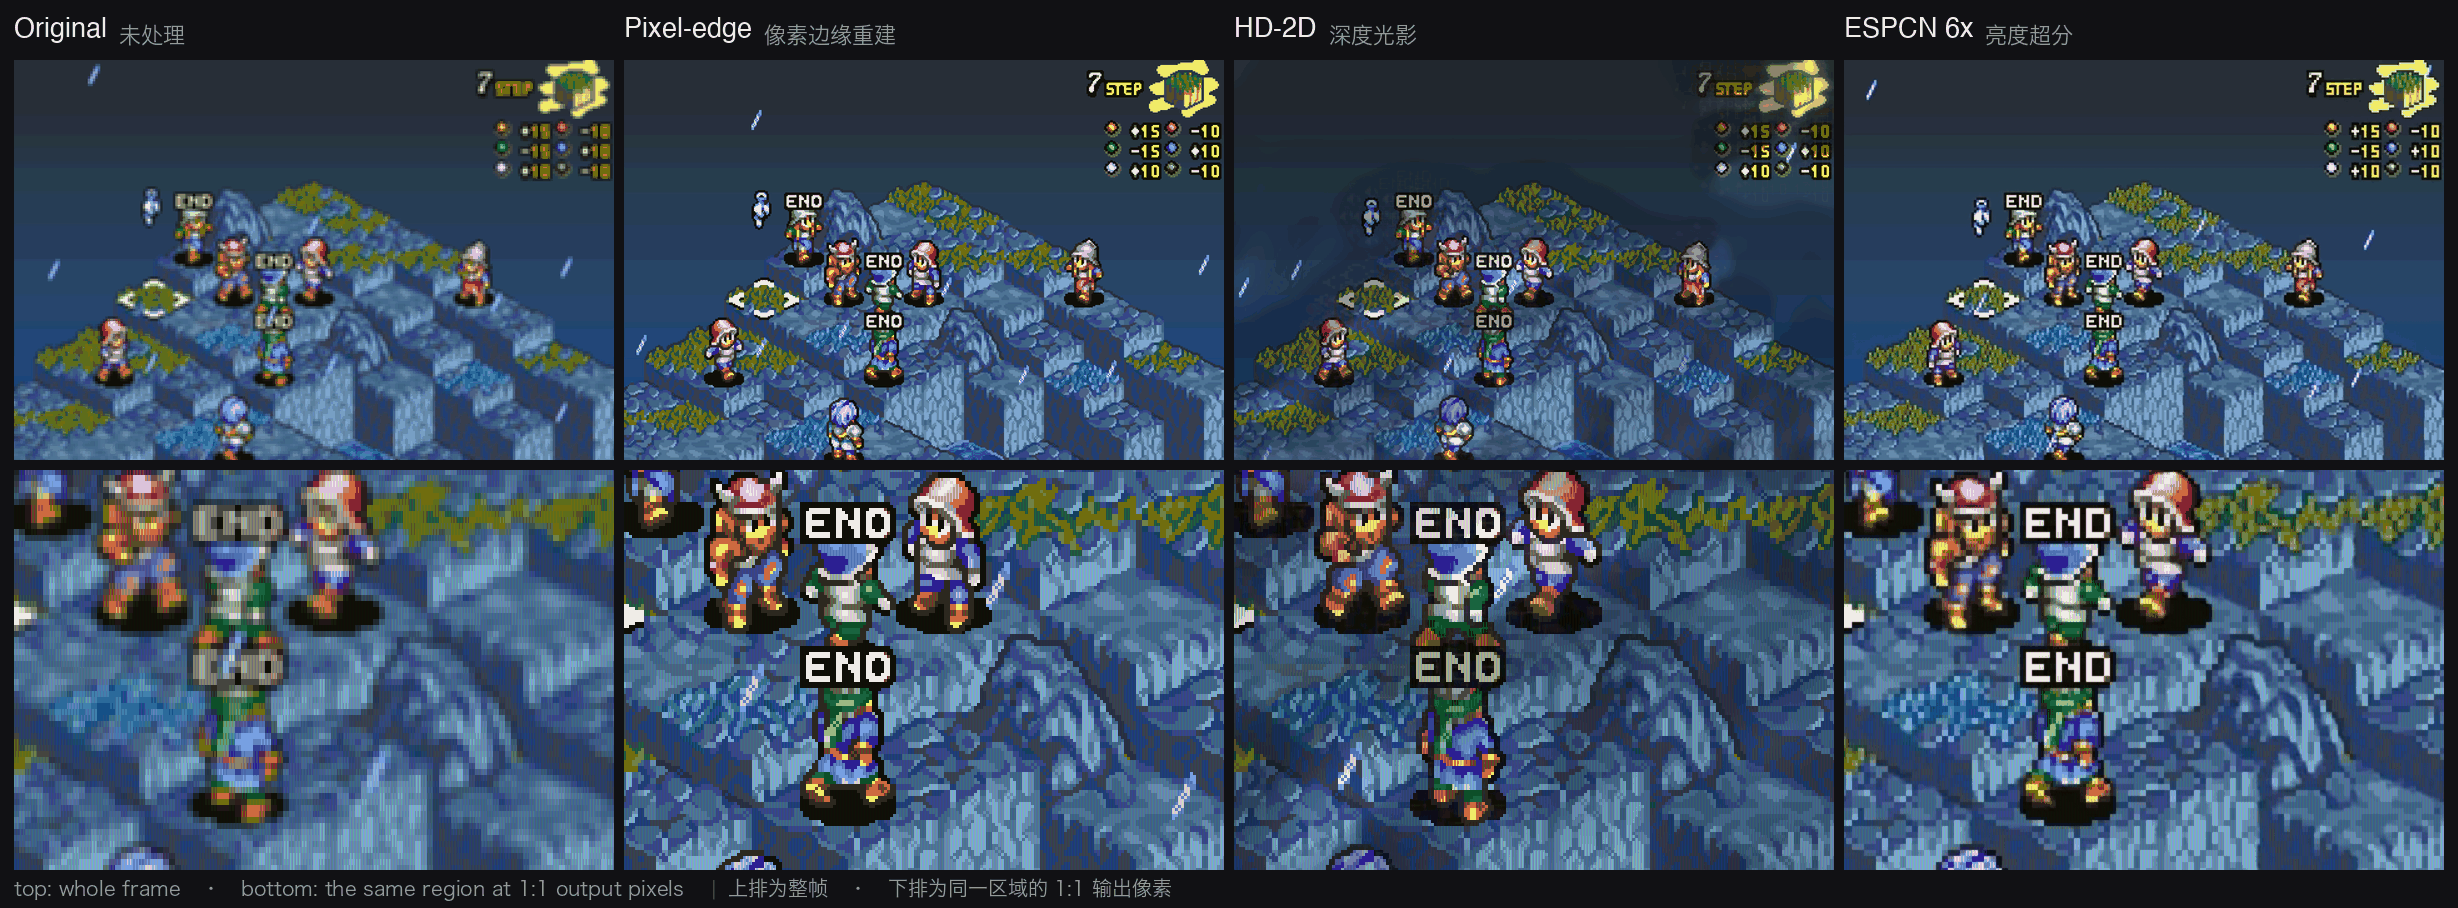
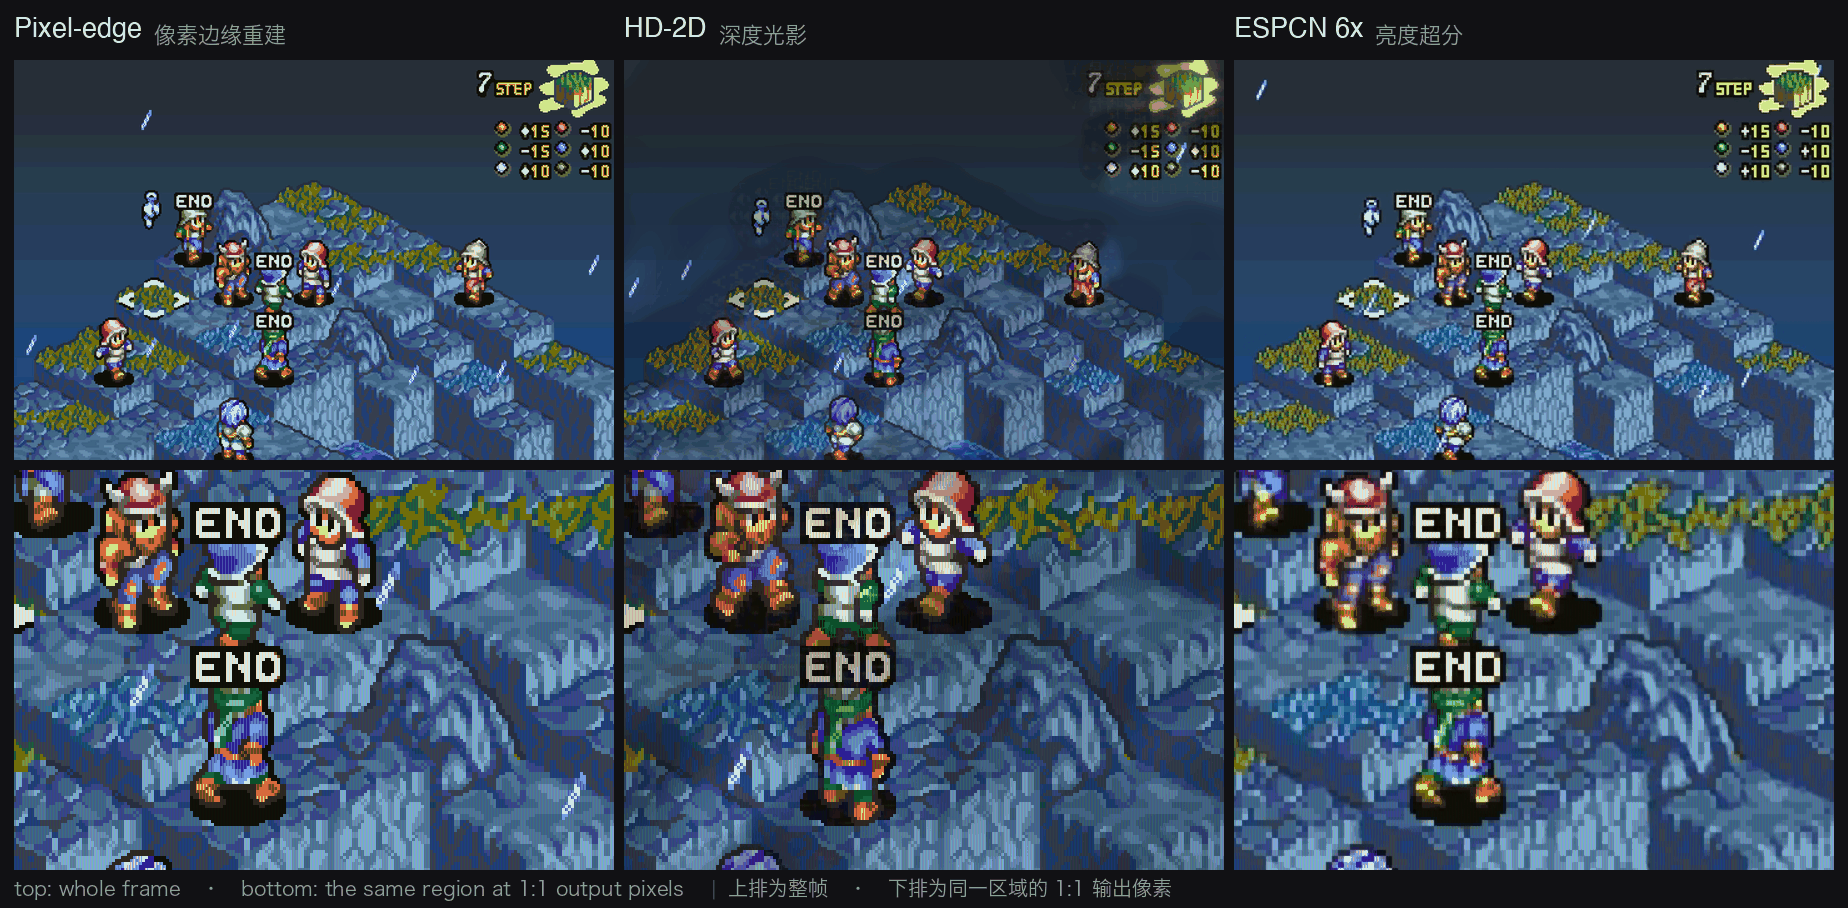
Cut the comparison to three columns so it can be read on GitHub
GitHub renders a README image at roughly 890 px wide, so the four-column strip
arrived at about 220 px per panel and nothing in it survived. Three is about
290, which reads.

Which three is a real choice rather than an arithmetic one, and the panel list
is now one line in tools/make_comparison.py with the trade written next to it.
Dropping the untouched frame loses the before, and the three processed engines
resemble each other closely enough that only HD-2D is obvious at a glance -
dropping pixel-edge instead would keep the baseline for about the same cost,
since HD-2D is pixel-edge with the lighting on top. Left as the author asked.

Both READMEs updated: they described four engines and named the original.

diff --git a/tools/make_comparison.py b/tools/make_comparison.py
@@ -19,15 +19,26 @@ OUT = os.path.join(SRC, "comparison.png")
 # Measured on all four, identical: the game area inside the letterbox.
 CONTENT = (240, 60, 1680, 1020)          # 1440x960, exactly 6x of 240x160
 
-# Panels in engine order, least to most processed.
-PANELS = [
-    # The Chinese half says something the English one does not - repeating
-    # "HD-2D" or "ESPCN 6x" in both would waste the line.
-    ("原图.png",           "Original",              "未处理"),
-    ("像素边缘重建.png",    "Pixel-edge",            "像素边缘重建"),
-    ("HD2D.png",           "HD-2D",                 "深度光影"),
-    ("ESPCN.png",          "ESPCN 6x",              "亮度超分"),
-]
+# Panels in engine order, least to most processed. The Chinese half of each
+# label says something the English one does not - repeating "HD-2D" or
+# "ESPCN 6x" in both would waste the line.
+ALL_PANELS = {
+    "original":   ("原图.png",        "Original",   "未处理"),
+    "pixel-edge": ("像素边缘重建.png", "Pixel-edge", "像素边缘重建"),
+    "hd2d":       ("HD2D.png",        "HD-2D",      "深度光影"),
+    "espcn":      ("ESPCN.png",       "ESPCN 6x",   "亮度超分"),
+}
+
+# THREE COLUMNS, NOT FOUR. GitHub renders a README image at about 890 px wide,
+# so a four-column strip arrives at roughly 220 px per panel and nothing in it
+# can be read without clicking through. Three is about 290.
+#
+# Which three is a real choice. Dropping "original" loses the before, and three
+# processed engines side by side look much alike to anyone who has not used
+# them; dropping "pixel-edge" instead keeps the baseline and costs little,
+# since HD-2D IS pixel-edge with the lighting on top.
+SHOW = ["pixel-edge", "hd2d", "espcn"]
+PANELS = [ALL_PANELS[k] for k in SHOW]
 
 COL_W = 600                               # width of one column
 COL_H = COL_W * 960 // 1440               # full frame, keeping 3:2

diff --git a/README.md b/README.md
@@ -15,11 +15,11 @@ to fill a 1280×960 panel and end up soft and smeared. RetroAI-Scaler captures
 RetroArch's picture at its **original resolution**, rebuilds it, and paints the
 result back over the screen — live, at 60 FPS.
 
-![Original, pixel-edge, HD-2D and ESPCN compared](pictures/comparison.png)
+![Pixel-edge, HD-2D and ESPCN compared](pictures/comparison.png)
 
-The same frame through four engines, captured on the handheld at 60 FPS. The
-bottom row is where it shows: the original is a bilinear smear, **Pixel-edge**
-rebuilds the diagonals the artist drew, **HD-2D** relights the scene from an
+The same frame through three engines, captured on the handheld at 60 FPS. The
+bottom row is where it shows: **Pixel-edge** rebuilds the diagonals the artist
+drew and leaves everything else alone, **HD-2D** relights the scene from an
 estimated depth map without touching a single one of those pixels, and
 **ESPCN 6x** reconstructs luminance at exactly the factor the screen draws.
 

diff --git a/README.zh-CN.md b/README.zh-CN.md
@@ -14,10 +14,10 @@
 RetroAI-Scaler 以**原始分辨率**捕获 RetroArch 的画面，重建之后再铺回屏幕上——
 实时，60 FPS。
 
-![原图、像素边缘重建、HD-2D 与 ESPCN 对比](pictures/comparison.png)
+![像素边缘重建、HD-2D 与 ESPCN 对比](pictures/comparison.png)
 
-同一帧经过四种引擎，掌机实拍，60 FPS。差别在下排才看得清：原图是双线性糊开的，
-**像素边缘重建**把作者画的斜线重建回来，**HD-2D** 用估出的深度重新打光而**一个像素都不改**，
+同一帧经过三种引擎，掌机实拍，60 FPS。差别在下排才看得清：**像素边缘重建**把作者画的
+斜线重建回来、别的一概不动，**HD-2D** 用估出的深度重新打光而**一个像素都不改**，
 **ESPCN 6x** 按屏幕实际绘制的倍率重建亮度。
 
 ## 功能
